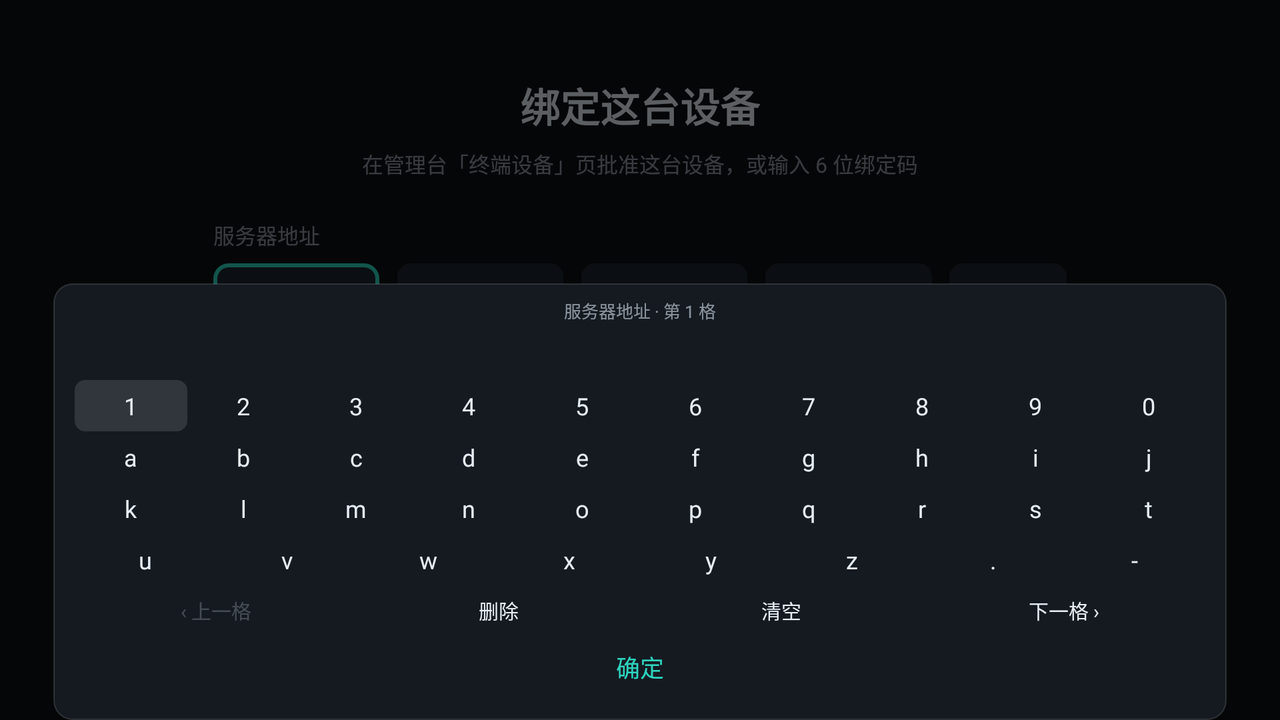
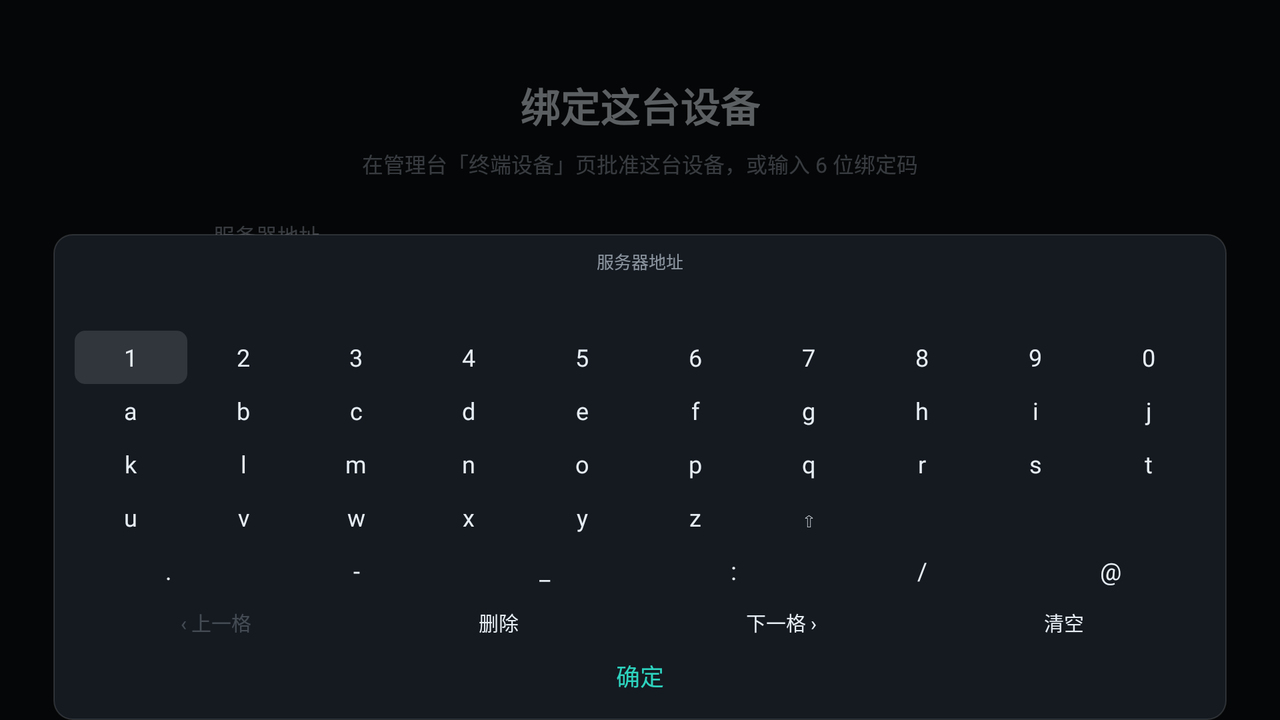
docs: 模拟器验证更新为两端跑通；域名做脱敏
- 修正两台 AVD 的身份（5554=手机 1080x1920 / 5556=电视 1920x1080，之前写反）
- 记录输入方式修复的实测证据：手机 mInputShown=true 且 input text 生效
- 电视键盘重做后的七行布局与 6/6 长度反馈
- 补完整链路结果：两端绑定成功，手机进 PhoneHomeActivity 播放 CCTV1，电视进 PlayerActivity 全屏播放，本包 0 崩溃
- 私有实例域名换成占位域名（AGENTS §8 不入库）
- 播放截图不入库（真实广播画面 + 第三方水印）

diff --git a/docs/design/03-Android模拟器验证.md b/docs/design/03-Android模拟器验证.md
@@ -1,143 +1,184 @@
 # 03 · Android 模拟器验证（两端 flavor）
 
-> 本文记录**一次真实执行过的验证**：在本机 Android 模拟器上装 x86 调试包，
-> 启动 TV 与手机两个 flavor，确认界面渲染、遥控器交互、无崩溃。
-> 每条结论都附当时的命令或输出。没做的部分单列在最后一节。
+> 本文记录**真实执行过的验证**：在本机 Android 模拟器上装 x86 调试包，
+> 跑 TV 与手机两个 flavor，确认界面渲染、输入方式、遥控器交互。
+> 每条结论都附当时的命令或输出。没做的部分单列在最后。
 
 ## 一、为什么要本地跑
 
 `AGENTS.md` §8 规定编译走 GitHub Actions，但那条规则的目的是「不要为了编译而搭工具链」，
-不是为了禁止本地验证。这次的情况是：**CI 只能告诉你编过了，不能告诉你界面长什么样**。
-模拟器能看到界面、能按方向键、能截图，这些 CI 给不了。
+不是禁止本地验证。这次的情况是：**CI 只能告诉你编过了，不能告诉你界面长什么样**。
 
-本机原本没有任何 Android 构建环境，所以先装了 JDK 与 Gradle。
+本机原本没有 Android 构建环境，所以先装了 JDK 与 Gradle（见第二节）。
 
-## 二、环境（本机实装）
+## 二、环境
 
-> 具体安装路径不写进仓库（AGENTS §8）。下面的命令一律用环境变量，
-> 换台机器只要 `JAVA_HOME` / `ANDROID_HOME` 指对就能跑。
+> 具体安装路径不写进仓库（AGENTS §8）。命令一律用环境变量。
 
 | 组件 | 版本 | 由谁提供 |
 |---|---|---|
 | JDK | Temurin **17.0.21** | `JAVA_HOME` |
 | Gradle | **8.14.6** | `PATH` 里的 `gradle` |
-| Android SDK | platform **35** / build-tools **35.0.0**（另有 34） | `ANDROID_HOME` |
+| Android SDK | platform **35** / build-tools **35.0.0** | `ANDROID_HOME` |
 | 模拟器加速 | **AEHD 2.2**（`emulator -accel-check` → `AEHD is installed and usable`） | 随 emulator 安装 |
 | AVD | `litvtv`、`litvphone`（API 28 / x86） | `emulator -list-avds` |
 
-`android/local.properties` 需要一行 `sdk.dir=<你的 SDK 路径>`。
-该文件已在 `.gitignore` 里，**不要提交**——提交了就把本机路径写死了。
+`android/local.properties` 需要一行 `sdk.dir=<SDK 路径>`，该文件在 `.gitignore` 里，不要提交。
 
-> 为什么用 API 28 的镜像：本机只装了 `system-images;android-28;android-tv;x86` 与 `android-28;default;x86`。
-> 工程 `minSdk = 21`，所以 API 28 是合法目标；但**它低于 `targetSdk = 35`**，
-> 高版本行为变更（分区存储、通知权限弹窗等）在 API 28 上不会出现——见第五节。
+## 三、两台模拟器必须先分清
 
-## 三、编译
+**踩过的坑**：`emulator -avd X` 不指定 `-port` 时端口是自动分配的，
+不能假设「先启动的是 5554」。这次就因为搞反，把手机包装到 TV 镜像上测了一轮。
+
+判断方法：
 
 ```bash
-export JAVA_HOME="<你的 JDK 17 路径>"
-export ANDROID_HOME="<你的 Android SDK 路径>"
-cd android
-gradle --no-daemon assembleTvDebug assemblePhoneDebug
+adb -s <serial> shell pm list features | grep -c leanback   # >0 才是电视
+adb -s <serial> shell wm size                               # 电视 1920x1080，手机 1080x1920
 ```
 
-结果：`BUILD SUCCESSFUL in 1m 25s`（82 tasks，61 executed / 21 cached）。
+本次实际：
 
-产物（每个 flavor 三个 ABI，x86 那份才是模拟器能装的）：
+| serial | 镜像 | 尺寸 | leanback |
+|---|---|---|---|
+| `emulator-5554` | **手机** | 1080×1920 | 0 |
+| `emulator-5556` | **电视** | 1920×1080 | 2 |
+
+## 四、编译与安装
+
+```bash
+export JAVA_HOME="<JDK 17>" ANDROID_HOME="<SDK>"
+cd android && gradle --no-daemon assembleTvDebug assemblePhoneDebug
+```
+
+`BUILD SUCCESSFUL`。x86 包：
 
 ```
 app/build/outputs/apk/tv/debug/app-tv-x86-debug.apk          58 MB
 app/build/outputs/apk/phone/debug/app-phone-x86-debug.apk    58 MB
 ```
 
-> **坑**：debug 构建的 applicationId 带 `.debug` 后缀——
-> 实际包名是 `com.litv.tv.debug` 与 `com.litv.tv.phone.debug`，不是 `com.litv.tv`。
-> 用 `aapt2 dump badging` 才能确认，别照抄文档里的正式包名。
+> **debug 包名带 `.debug` 后缀**：实际是 `com.litv.tv.debug` 与 `com.litv.tv.phone.debug`。
+> 用 `aapt2 dump badging` 确认，别照抄正式包名。
 
-## 四、跑起来
+启动 Activity 统一是 `com.litv.tv.ui.LauncherActivity`（源码包不随 applicationId 变）。
 
-```bash
-A=$ANDROID_HOME/platform-tools/adb
-$ANDROID_HOME/emulator/emulator -avd litvtv -accel on \
-  -no-window -no-audio -no-boot-anim -gpu swiftshader_indirect -no-snapshot &
-$A wait-for-device
-# 等 sys.boot_completed = 1（实测约 20 秒）
-$A install -r -t app/build/outputs/apk/tv/debug/app-tv-x86-debug.apk
-$A shell am start -W -n com.litv.tv.debug/com.litv.tv.ui.LauncherActivity
-```
+## 五、实测结果
 
-手机端同理，换 `litvphone` + `app-phone-x86-debug.apk` + `com.litv.tv.phone.debug`，
-并加 `-port 5556` 与两台并行。
-
-### 实测结果
-
-| 项 | TV（`litvtv`） | 手机（`litvphone`） |
+| 项 | 电视（`litvtv` / 5556） | 手机（`litvphone` / 5554） |
 |---|---|---|
 | 包名 | `com.litv.tv.debug` | `com.litv.tv.phone.debug` |
 | 首次启动落到 | `BindActivity` | `BindActivity` |
-| `am start -W` TotalTime | **1629 ms** | **1503 ms** |
-| 清数据后 | 仍进 `BindActivity` | 仍进 `BindActivity` |
+| `am start -W` TotalTime | 2463–2601 ms | 2632 ms |
 | 本包 `FATAL EXCEPTION` | **0** | **0** |
-| 分辨率 | 1920×1080 | 1080×1920 |
 
-两个 flavor 在**同一份代码**下落到同一个入口，说明「界面形态按 flavor 分流」这条没有开叉。
+## 六、输入方式：这次改的就是这里
 
-### 遥控器交互（TV 端）
+### 改之前：手机端没有可用输入通道
 
-TV 端没有触摸，只能靠方向键。实测：
+`TvKeyboard` 原来**无条件**套在整页所有输入框上。它是按电视 16:9 画的，
+放到 1080×1920 竖屏上被裁切，实测键盘上只剩：
 
-| 操作 | 结果 |
+```
+1 2 3 4 5 a b c d e k l m n o u v w x ‹ 上一格 删除 确定
+```
+
+**15 个字母，缺 f–j、p–t、z 和 6–0。** 后果：`tv.example.com` 里的 `i/p/t/z`
+一个都打不出来，含 6–9 的 IP 段也输不了。系统 IME 又被主动关掉了
+（`showSoftInputOnFocus=false` + 窗口级 `SOFT_INPUT_STATE_ALWAYS_HIDDEN`），
+所以手机端**根本没有任何可用的文字输入通道**。
+
+### 改之后：按设备类型分流
+
+`BindActivity` 新增 `isTv`（`DeviceType.isTV`）：
+
+| 设备 | 输入方式 |
 |---|---|
-| `DPAD_UP` ×2 + `OK` | 焦点移到「协议」并把 `HTTPS` 切成 `HTTP`——说明方向键能移焦点、OK 能触发控件 |
-| 再 `DPAD_UP` + `OK`（落在地址框） | 弹出**应用内屏幕键盘**：标题「服务器地址 · 第 1 格」，数字行 1–0、字母 a–z、`.` `-`，底部 `上一格 / 删除 / 清空 / 下一格 / 确定` |
+| 电视 | 自绘 `TvKeyboard`（系统 IME 会吃掉方向键，见 `TvKeyboard` 类注释） |
+| 手机 | 系统 IME（`SOFT_INPUT_ADJUST_RESIZE`，触摸操作不存在抢方向键的问题） |
 
-这块是历史上出过事的地方（见 [电视输入复盘](../postmortem/POSTMORTEM_2026-11-12_tv-input.md)），
-所以值得单独验一次：**分段输入 + 逐格跳转是通的**。
+**验证**（手机镜像 5554）：点地址框后 `dumpsys input_method` → `mInputShown=true`，
+`adb shell input text 'tv.example.com'` 成功写入，输入框内容为 `tv.example.com`。
 
-> 注意：那个键盘是**应用内自绘**的 View，不是系统 IME。
-> 所以 `dumpsys input_method` 里 `mInputShown=false` 属正常现象，别据此判断「键盘没弹出来」。
+> 注意：flavor 与设备类型是两件事。手机包装在电视上，`DeviceType.isTV` 仍判真，
+> 照样走自绘键盘——这是设计意图（界面形态优先级：设置 > 安装版本 > 设备特征）。
 
-## 五、没验证的部分（重要）
+### 电视键盘重做（对齐 Leanback guided step 的通行做法）
+
+| 改动 | 原因 |
+|---|---|
+| 宽度 `min(880dp, 屏宽×94%)` | 写死 dp 在窄屏上被裁切 |
+| 键位改**显式高度** | 窗口被内容撑满时，LinearLayout 会把溢出子行压成 0 高——真机表现为键盘只画到字母行、符号行与「确定」全消失，面板却还是满屏高 |
+| 字母区补 `⇧` 大小写 | 域名用小写，密码可能要大写 |
+| 新增符号行 `. - _ : / @` | 反向代理地址可能要 `:` `/` |
+| 标题显示 `n/max` | 到长度上限不再静默吞键 |
+| 「清空」移到最右 | 原来紧挨「删除」，误触会清掉整段输入 |
+| 逐键日志只在 `BuildConfig.DEBUG` 打 | Release 不带详细日志（AGENTS §6） |
+
+实测渲染（1920×1080）：标题「服务器地址」→ `1–0` → `a–j` → `k–t` → `u–z ⇧` →
+`. - _ : / @` → `‹ 上一格 / 删除 / 下一格 › / 清空` → `确定`，七行全部可见。
+触摸点键输入 `tv.example.com`，预览条实时显示，按「确定」回填表单成功。
+
+## 七、接真实服务端：两端都跑通了
+
+目标实例是一台 **edge 模式** 的实例（域名此处用 `tv.example.com` 代替，真实地址不入库），`/api/v1/health` 返回 `"version":"edge"`）。
+
+edge 模式不支持临时签发绑定码：
+
+```
+{"code":2006,"msg":"边缘模式不支持生成绑定码（边缘模式的绑定码就是 BIND_CODE，不临时签发）"}
+```
+
+所以必须先拿到这台实例的 `BIND_CODE`（固定 6 位）。拿到之后的完整链路：
+
+| 步骤 | 手机（5554） | 电视（5556） |
+|---|---|---|
+| 输入地址 | 系统 IME，`input text` 直输 ✓ | 自绘键盘点键，预览回显 ✓ |
+| 填绑定码 | 系统 IME ✓ | 自绘键盘标题显示 `6/6` ✓ |
+| 点「绑定」 | 立即绑定 | 立即绑定 |
+| 落到 | `PhoneHomeActivity` | `PlayerActivity` |
+| 结果 | **CCTV1综合 正在播**，系统硬解 Media3，直连源站 | **CCTV1综合 全屏播放** |
+| 本包 FATAL | **0** | **0** |
+
+两个 flavor 绑完落到不同页面，与 `BindActivity.goHome()` 的 `DeviceType.isTV` 分流一致：
+电视没有"首页"概念，绑完直接全屏播放，频道列表是按 ← 呼出的浮层。
+
+> 播放截图没进仓库：画面是真实广播内容且带第三方水印，不适合放在「不内置源」的公开仓库里。
+
+## 八、没验证的部分
 
 | 项 | 为什么没验 | 怎么补 |
 |---|---|---|
-| **播放链路** | 本地没有跑着的 LITV 服务端，也没有源 | 起一个服务端（或指向现有 NAS），绑定后在模拟器里实际起播 |
-| 绑定 → 批准 → 进首页 | 同上，需要服务端配合 | 同上 |
-| 高版本行为（API 29+） | 本机只有 API 28 镜像 | `sdkmanager` 装 `system-images;android-35;...` 后另建 AVD |
-| release 包 / R8 | 只编了 debug | `assembleRelease` 需要签名配置，属另一轮 |
-| TV 真实焦点流（横跨整页） | 只验了绑定页这一段 | 接上服务端后在频道页、播放页逐格走 |
+| API 29+ 行为 | 本机只有 API 28 镜像 | `sdkmanager` 装 35 的镜像另建 AVD |
+| release 包 / R8 | 只编了 debug | `assembleRelease` 需要签名配置 |
+| TV 全页焦点流 | 只走了绑定页与播放页 | 在频道浮层、设置弹层逐格走一遍 |
+| 时移 / 录制 / 投屏 | 需要在模拟器里逐条点 | 同一套设备，逐功能验证 |
+| 长时间播放 / 断网恢复 | 未做 | 播放 30 分钟观察内存与重连 |
 
-**已验的部分只覆盖「能装、能起、能画、能按、不崩」，不等于「功能可用」。**
+**已验的部分覆盖「装 → 起 → 绑 → 播」，但没覆盖时移、录制、投屏、异常恢复。**
 
-## 六、一个容易误判的现象
+## 九、一个容易误判的现象
 
-跑 TV 镜像时，`logcat` 里会出现 `com.android.tv.dvr` 的 `FATAL EXCEPTION`：
-
-```
-java.lang.RuntimeException: An error occurred while executing doInBackground()
-Caused by: android.database.sqlite.SQLiteException: no such column: failed_reason
-```
-
-那是 **Android TV 系统自带的 DVR 应用**（`com.android.tv.dvr`，进程号与我们的包无关）在
-API 28 镜像上的已知问题，不是本项目的崩溃。判断「我们的 App 有没有崩」必须按包名过滤：
+跑 TV 镜像时 `logcat` 会出现 `com.android.tv.dvr` 的 `FATAL EXCEPTION`
+（`SQLiteException: no such column: failed_reason`）。那是 **Android TV 系统自带的 DVR 应用**
+在 API 28 镜像上的已知问题，与本项目无关。判断我们的 App 有没有崩必须按包名过滤：
 
 ```bash
 adb logcat -d | grep -iE "com\.litv" | grep -iE "FATAL|Exception"
 ```
 
-## 七、复现
+## 十、复现
 
 ```bash
-export JAVA_HOME="<你的 JDK 17 路径>" ANDROID_HOME="<你的 Android SDK 路径>"
+export JAVA_HOME="<JDK 17>" ANDROID_HOME="<SDK>"
 cd android && gradle --no-daemon assembleTvDebug assemblePhoneDebug
+
 $ANDROID_HOME/emulator/emulator -avd litvtv -accel on -no-window -no-audio \
-  -no-boot-anim -gpu swiftshader_indirect -no-snapshot &
-$ANDROID_HOME/platform-tools/adb wait-for-device
-$ANDROID_HOME/platform-tools/adb install -r -t \
+  -no-boot-anim -gpu swiftshader_indirect -no-snapshot -port 5556 &
+$ANDROID_HOME/platform-tools/adb -s emulator-5556 install -r -t \
   app/build/outputs/apk/tv/debug/app-tv-x86-debug.apk
-$ANDROID_HOME/platform-tools/adb shell am start -W \
+$ANDROID_HOME/platform-tools/adb -s emulator-5556 shell am start -W \
   -n com.litv.tv.debug/com.litv.tv.ui.LauncherActivity
-$ANDROID_HOME/platform-tools/adb exec-out screencap -p > tv.png
 ```
 
-截图存于 [`docs/images/client/`](../images/client/)：`tv-bind.png`、`tv-keyboard.png`、`phone-bind.png`。
+截图见 [`docs/images/client/`](../images/client/)。
